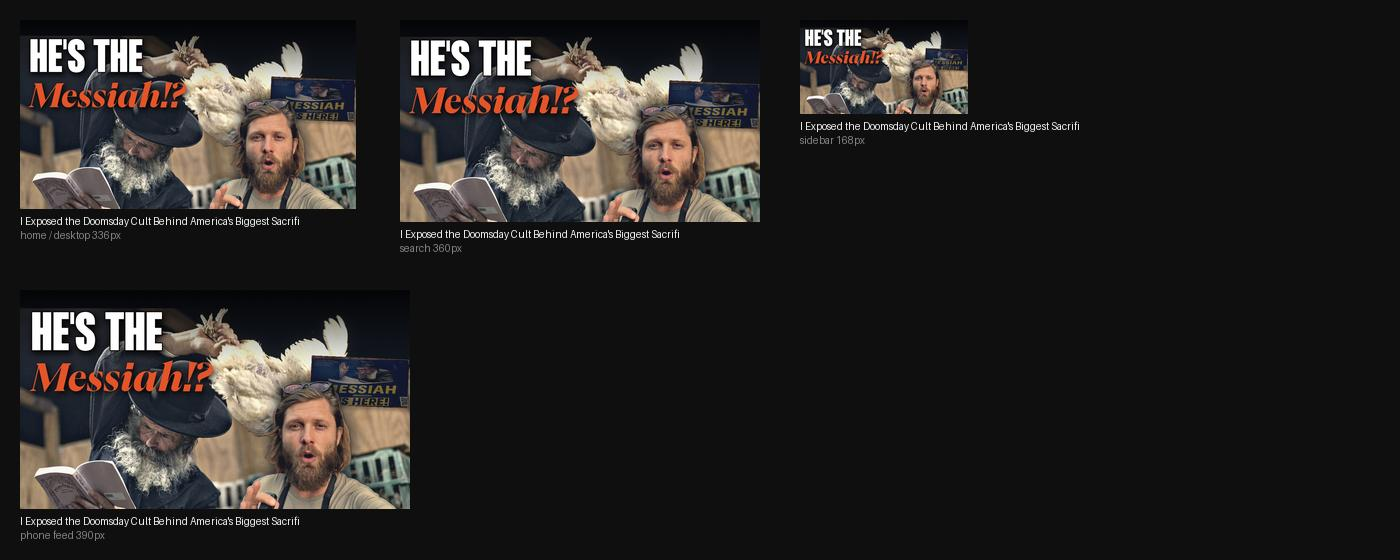
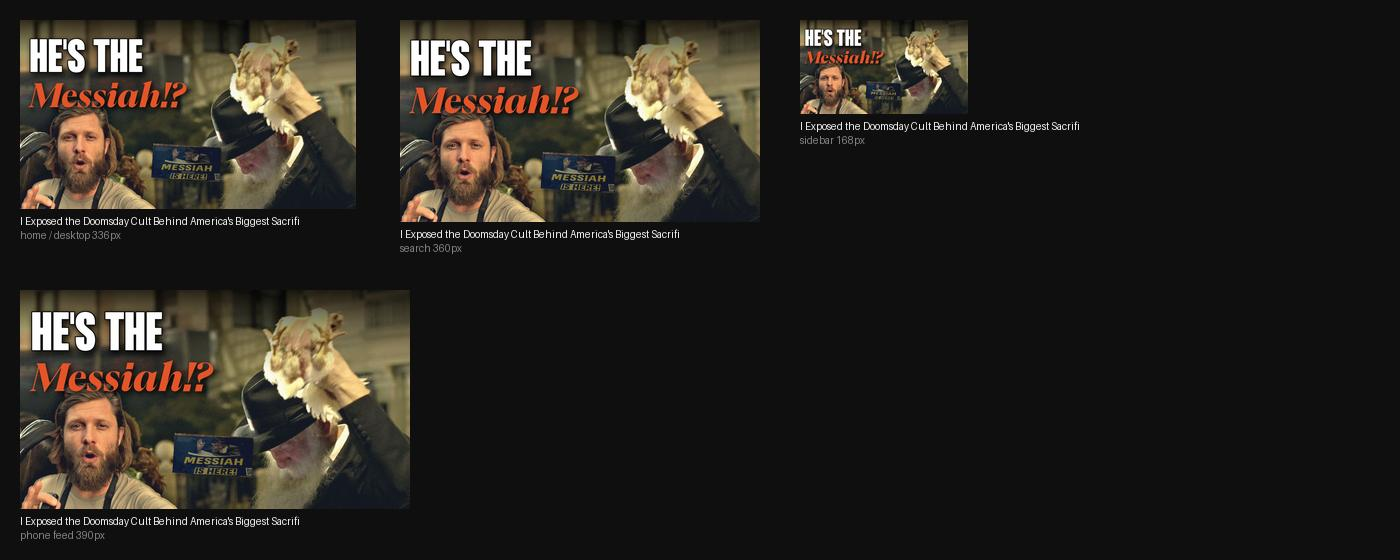
kaporos-part3: real 4K swing plate from C9304, relayout a/b/c, Grok brief
Claude-Session: https://claude.ai/code/session_01HtEgFvxjez9kH7Myy5iKKf

Changed region(s): [[0.0, 0.0304, 0.7064, 0.3946], [0.0, 0.5161, 0.3071, 0.9107]]

diff --git a/brand/thumbnails/videos/kaporos-part3/grok_brief.md b/brand/thumbnails/videos/kaporos-part3/grok_brief.md
@@ -1,0 +1,22 @@
+# Grok brief — kaporos-part3 (comparison to the in-house render)
+
+Written in the style of a friend's design brief (full-background painting + presenter cutout + stacked title +
+brand palette + "make four designs"), re-pointed at this video and the Christspiracy colour ways.
+
+---
+
+Let's make a premium YouTube thumbnail. Design this thumbnail like you are a world class thumbnail designer. Do not do the regular AI thumbnail style. Format is 16:9 landscape, 1280 x 720 pixels. Title on the thumbnail reads "HE'S THE MESSIAH!?"
+
+I am uploading three images. Image 1 is me, a selfie shot on the ground at the event. Image 2 is a documentary frame of a Hasidic man in a black hat swinging a live white chicken over his head while reading from a prayer book, which will be the full background. Image 3 is a real sticker photographed on a Brooklyn street that reads "MESSIAH IS HERE" with the face of the late Lubavitcher Rebbe.
+
+This video is the third and final part of a documentary on Kaporos, the chicken sacrifice performed on Brooklyn sidewalks the night before Yom Kippur. I filmed the ritual up close: thousands of birds in crates, men swinging them overhead while saying "this is my substitute, this is my atonement", then the slaughter. Then I found out the community doing it believes their dead rabbi is the Messiah, that his headquarters is the Third Temple in waiting, and that the end of their story is a rebuilt altar in Jerusalem with the knives out again. The thumbnail's job is to tie the man swinging the chicken to the Messiah claim, with me there as the witness. The title of the video carries the cult angle, so the thumbnail must not repeat it; it only needs the swing, the sticker and the two-line question. Tone is serious, investigative, on-the-ground, not mocking, not preachy.
+
+Background: use image 2 as the full-frame background. Keep the frame's composition, figures and details as they are. Do not redraw or replace the man, the hat, the prayer book or the chicken. The most important part of the frame is the chicken held aloft by its legs, wings open, top right of frame. Keep the bird and the raised arm clearly visible and uncovered. Grade the frame to fit a moody documentary look: deepen the shadows, cool the blacks very slightly, keep skin and feathers natural, add a vignette, and darken the top-left third of the frame so the title stands out. It must still look like a photograph, not an illustration.
+
+Foreground: place me from image 1 to the right of centre in the lower half of the frame, cut out cleanly from the chest up, lit to match the overcast daylight of the frame so I look like I am standing in the scene. Do not cover the chicken or the man's face. Keep my face exactly the same, a 100% accurate representation of the picture, upscaled to premium quality. Place image 3, the sticker, small on the right side at the height of my shoulder, slightly rotated, as if stuck on the plywood behind me, with the same grade as everything else.
+
+Title placement: stack the title in two lines ("HE'S THE" / "MESSIAH!?") in the top-left of the frame over the darkened area, "MESSIAH!?" the larger line and the only coloured word. Keep my face and all title text inside the safe area away from the bottom-right corner where YouTube places the duration badge. The title must still read when the thumbnail is 168 pixels wide in the sidebar.
+
+Brand colours to pull from: White #FFFFFF, Brand Red #E45428 (for the one key word only), Cream #ECE0C4, Gold #F7E9A8, Ink #21211F, Black #000000. No other colours in the type. Typography should be heavy condensed caps like PP Formula Condensed Black or Anton, white with a hard black drop shadow, red for the one key word. One design may set "Messiah!?" in a heavy serif italic like PP Eiko Black Italic as the accent word. No other text on the image besides the title. No arrows, circles, emoji, eyebrows or straplines.
+
+Make four designs.

diff --git a/brand/thumbnails/videos/kaporos-part3/NOTES.md b/brand/thumbnails/videos/kaporos-part3/NOTES.md
@@ -4,7 +4,7 @@
 - Promise the thumbnail makes: the man swinging the chicken is tied to a "Messiah" claim; Kameron is there, on the ground.
 - Hero: the swinging man (plate). Secondary: real "MESSIAH IS HERE" sticker (Reade St), Kameron on-site cutout.
 - Red word: MESSIAH!?
-- Plate source: Artlist-upscaled 640x400 still supplied for the swing moment. 2026-10-05: searched this Mac + the Jan 2025 drive; no full-res copy of that frame exists here (it is not from our footage), so swing_frame.jpg stays.
+- Plate source: assets/swing_frame_real.jpg = 4K frame at 28.67s of `/Volumes/Jan 2025/Kapparot/Final Day/camera/C9304.MP4` (Sony log, converted with a levels stretch + gamma 1.2 + saturation 1.3 before the house grade). Found by sheeting all 103 camera clips at 1 frame / 2 s; the only overhead swings in the whole night are C9304 ~27-30s, C9355 ~120-124s (wide) and C9320 ~2-4s (blurred, child in frame). The old swing_frame.jpg was a supplied 640x400 press-style still and is kept only for reference.
 - Cutouts: kameron_onsite_cutout.png (2160x3840, rembg bria-rmbg) from assets/kameron_onsite_selfie.jpg = frame at 19.10s of `/Volumes/Jan 2025/Kapparot/Day 3/Teleprompter-2026-16-09_18-30-48.MP4` (template-match score 0.995 vs the old 1320px cutout).
-- Variants: a = lead (condensed, presenter right of centre), b = serif-italic accent, sticker on wall, c = poster only (no presenter)
+- Variants: a = lead (condensed, presenter lower-left, sticker on the fence between him and the rabbi), b = serif-italic accent, c = no presenter, plate shifted left, sticker covers the bystander lower-left
 - Fonts: real brand fonts since 2026-10-05 (condensed = PPFormula-CondensedBlack, serif-italic = PPEiko-BlackItalic). Text sizes re-tuned: a 176/advance 172, b 156 + Eiko 122, so nothing touches the chicken.
